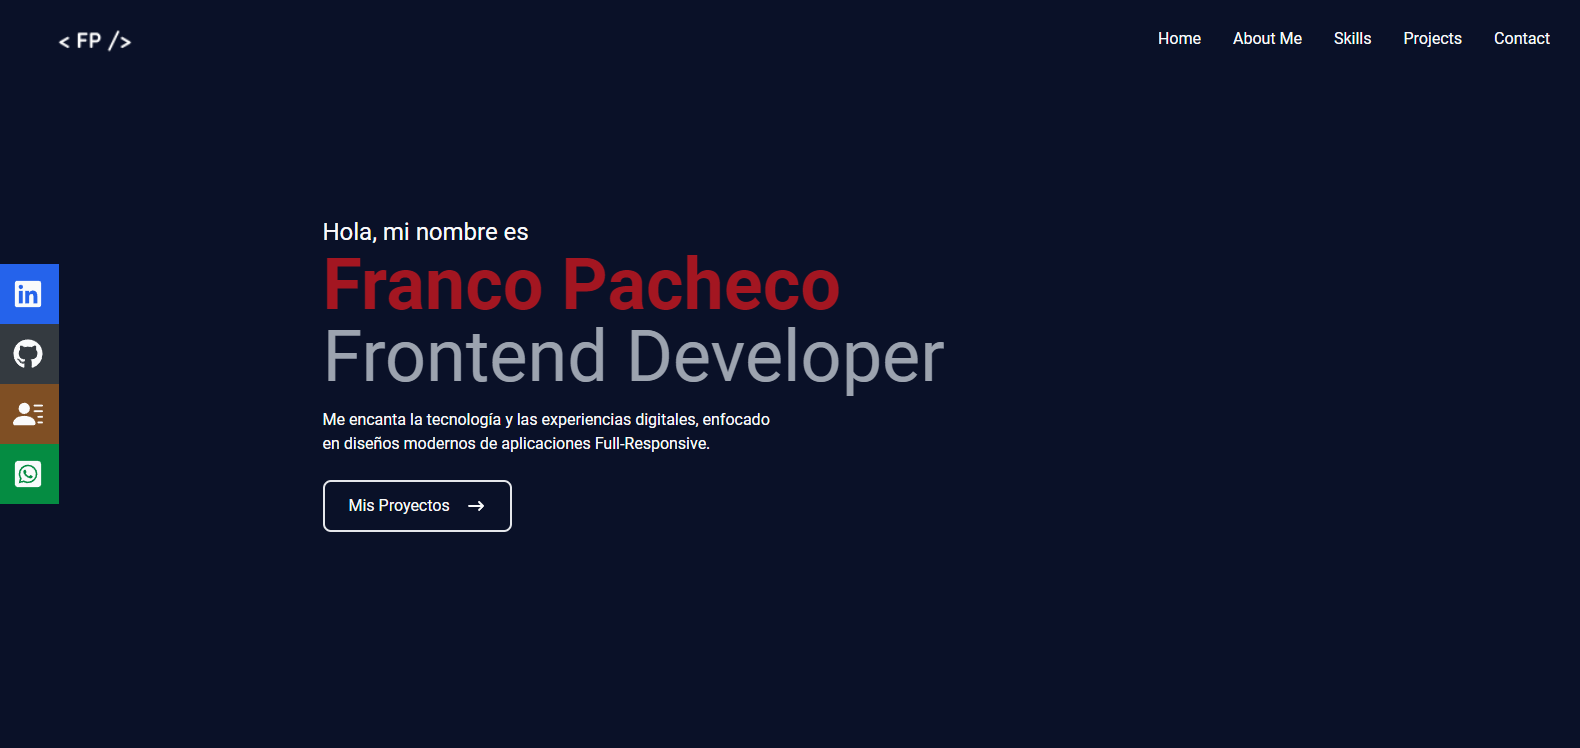
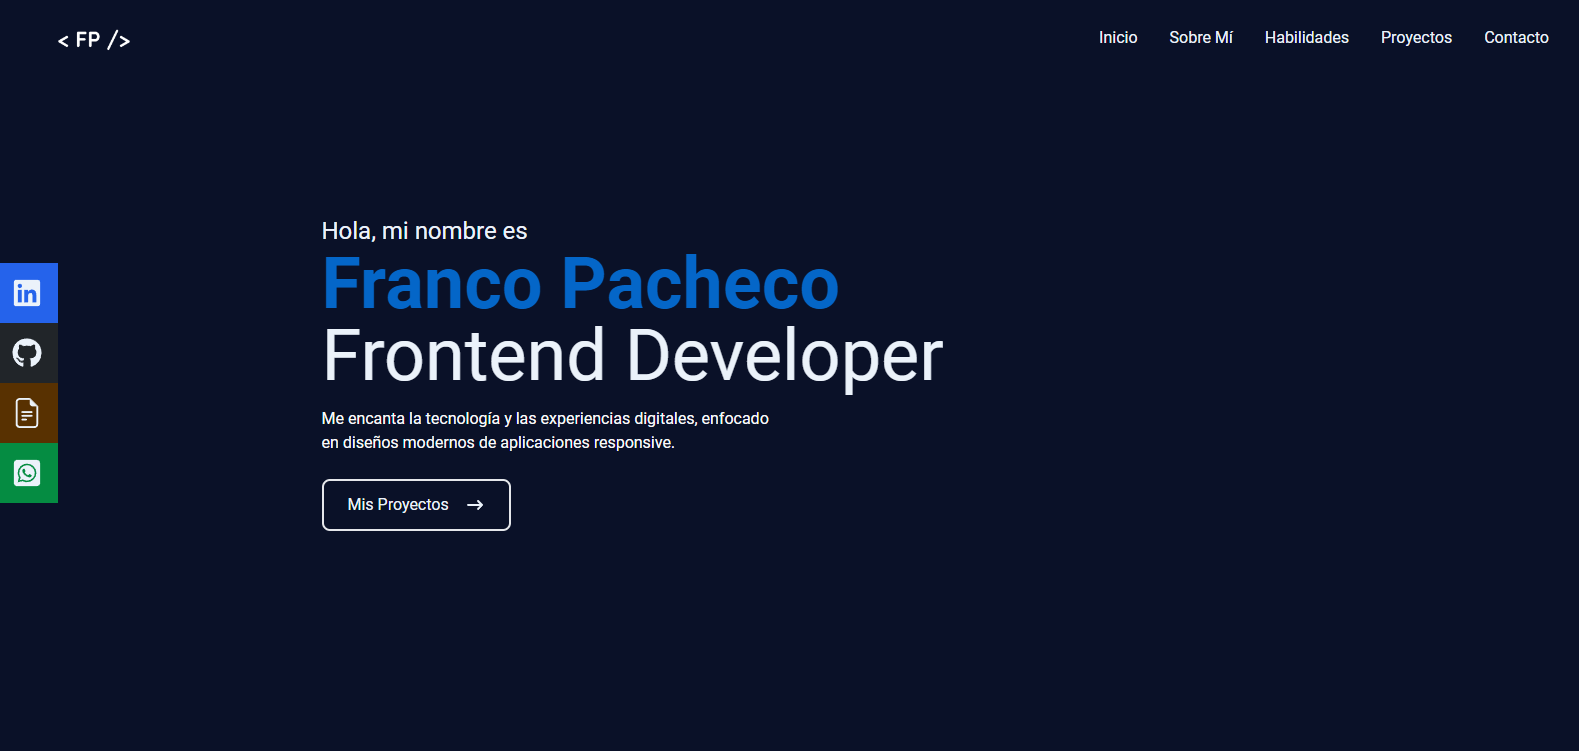
edit

diff --git a/src/components/NavBar.jsx b/src/components/NavBar.jsx
@@ -1,42 +1,42 @@
 import React, { useState } from 'react'
 import Logo from '../assets/logo.png'
 import {FaBars, FaTimes, FaGithub, FaLinkedin, FaWhatsappSquare} from 'react-icons/fa'
-import {BsFillPersonLinesFill} from 'react-icons/bs'
+import {BsFileEarmarkText} from 'react-icons/bs'
 import { Link } from 'react-scroll';
 
 export const NavBar = () => {
     const [nav, setNav] = useState(false);
     const handleClick = () => setNav(!nav)
     return (
-        <div className='fixed w-full h-[80px] flex justify-between items-center px-4 bg-[#0a1128] text-gray-50'>
+        <div className='fixed w-full h-[80px] flex justify-between items-center px-4 bg-[#0a1128] text-[#ebf2fa]'>
             <div className=''>
-                <img src={Logo} alt="Logo Image" style={{width: '160px'}}/>
+                <img src={Logo} alt="Mi Logo" style={{width: '160px'}}/>
             </div>
             {/* menu */}
                 <ul className='hidden md:flex'>
                 <li>
-                    <Link to='home' className='hover:text-[#a31621] duration-200' smooth={true} duration={500}>
-                        Home
+                    <Link to='home' className='hover:text-[#0466c8] duration-200' smooth={true} duration={500}>
+                        Inicio
                     </Link>
                 </li>
                 <li>
-                    <Link to='about' className='hover:text-[#a31621] duration-200' smooth={true} duration={500}>
-                        About Me
+                    <Link to='about' className='hover:text-[#0466c8] duration-200' smooth={true} duration={500}>
+                        Sobre Mí
                     </Link>
                 </li>
                 <li>
-                    <Link to='skills' className='hover:text-[#a31621] duration-200' smooth={true} duration={500}>
-                        Skills
+                    <Link to='skills' className='hover:text-[#0466c8] duration-200' smooth={true} duration={500}>
+                        Habilidades
                     </Link>
                 </li>
                 <li>
-                    <Link to='projects' className='hover:text-[#a31621] duration-200' smooth={true} duration={500}>
-                        Projects
+                    <Link to='projects' className='hover:text-[#0466c8] duration-200' smooth={true} duration={500}>
+                        Proyectos
                     </Link>
                 </li>
                 <li>
-                    <Link to='contact' className='hover:text-[#a31621] duration-200' smooth={true} duration={500}>
-                        Contact
+                    <Link to='contact' className='hover:text-[#0466c8] duration-200' smooth={true} duration={500}>
+                        Contacto
                     </Link>
                 </li>
                 </ul>
@@ -49,28 +49,28 @@ export const NavBar = () => {
             {/* mobile menu */} 
                 <ul className={!nav ? 'hidden' : 'absolute top-0 left-0 w-full h-screen bg-[#0a1128] flex flex-col justify-center items-center'}>
                 <li className='py-6 text-3xl'>
-                    <Link to='home' onClick={handleClick} className='hover:text-[#a31621] duration-200' smooth={true} duration={500}>
-                        Home
+                    <Link to='home' onClick={handleClick} className='hover:text-[#0466c8] duration-200' smooth={true} duration={500}>
+                        Inicio
                     </Link>
                 </li>
                 <li className='py-6 text-3xl'>
-                    <Link to='about' onClick={handleClick} className='hover:text-[#a31621] duration-200' smooth={true} duration={500}>
-                        About Me
+                    <Link to='about' onClick={handleClick} className='hover:text-[#0466c8] duration-200' smooth={true} duration={500}>
+                        Sobre Mí
                     </Link>
                 </li>
                 <li className='py-6 text-3xl'>
-                    <Link to='skills' onClick={handleClick} className='hover:text-[#a31621] duration-200' smooth={true} duration={500}>
-                        Skills
+                    <Link to='skills' onClick={handleClick} className='hover:text-[#0466c8] duration-200' smooth={true} duration={500}>
+                        Habilidades
                     </Link>
                 </li>
                 <li className='py-6 text-3xl'>
-                    <Link to='projects' onClick={handleClick} className='hover:text-[#a31621] duration-200' smooth={true} duration={500}>
-                        Projects
+                    <Link to='projects' onClick={handleClick} className='hover:text-[#0466c8] duration-200' smooth={true} duration={500}>
+                        Proyectos
                     </Link>
                 </li>
                 <li className='py-6 text-3xl'>
-                    <Link to='contact' onClick={handleClick} className='hover:text-[#a31621] duration-200' smooth={true} duration={500}>
-                        Contact
+                    <Link to='contact' onClick={handleClick} className='hover:text-[#0466c8] duration-200' smooth={true} duration={500}>
+                        Contacto
                     </Link>
                 </li>
                 </ul>
@@ -78,22 +78,22 @@ export const NavBar = () => {
             <div className="hidden lg:flex fixed flex-col top-[35%] left-0">
                 <ul>
                     <li className='w-[160px] h-[60px] flex justify-between items-center ml-[-100px] hover:ml-[-10px] duration-300 bg-blue-600'>
-                        <a className='flex justify-between items-center w-full text-gray-50' href="https://www.linkedin.com/in/francopachec0/" target='_blank'>
+                        <a className='flex justify-between items-center w-full text-[#ebf2fa] ml-3' href="https://www.linkedin.com/in/francopachec0/" target='_blank' rel='noreferrer'>
                             LinkedIn <FaLinkedin size={30}/>
                         </a>
                     </li>
-                    <li className='w-[160px] h-[60px] flex justify-between items-center ml-[-100px] hover:ml-[-10px] duration-300 bg-[#343a40]'>
-                        <a className='flex justify-between items-center w-full text-gray-50' href="https://github.com/francopachec0" target='_blank'>
+                    <li className='w-[160px] h-[60px] flex justify-between items-center ml-[-100px] hover:ml-[-10px] duration-300 bg-[#212529]'>
+                        <a className='flex justify-between items-center w-full text-[#ebf2fa] ml-3' href="https://github.com/francopachec0" target='_blank' rel='noreferrer'>
                             GitHub <FaGithub size={30}/>
                         </a>
                     </li>
-                    <li className='w-[160px] h-[60px] flex justify-between items-center ml-[-100px] hover:ml-[-10px] duration-300 bg-[#7f4f24]'>
-                        <a className='flex justify-between items-center w-full text-gray-50' href="https://www.canva.com/design/DAE2vqz32FQ/5HR9WYjtQEXlmjY-kK9fww/view?utm_content=DAE2vqz32FQ&utm_campaign=designshare&utm_medium=link&utm_source=publishsharelink" target='_blank'>
-                            Resume <BsFillPersonLinesFill size={30}/>
+                    <li className='w-[160px] h-[60px] flex justify-between items-center ml-[-100px] hover:ml-[-10px] duration-300 bg-[#583101]'>
+                        <a className='flex justify-between items-center w-full text-[#ebf2fa] ml-3' href="https://www.canva.com/design/DAE2vqz32FQ/5HR9WYjtQEXlmjY-kK9fww/view?utm_content=DAE2vqz32FQ&utm_campaign=designshare&utm_medium=link&utm_source=publishsharelink" target='_blank' rel='noreferrer'>
+                            CV <BsFileEarmarkText size={30}/>
                         </a>
                     </li>
                     <li className='w-[160px] h-[60px] flex justify-between items-center ml-[-100px] hover:ml-[-10px] duration-300 bg-[#058c42]'>
-                        <a className='flex justify-between items-center w-full text-gray-50' href="https://wa.me/+543855374571" target='_blank'>
+                        <a className='flex justify-between items-center w-full text-[#ebf2fa] ml-3' href="https://wa.me/+543855374571" target='_blank' rel='noreferrer'>
                             WhatsApp <FaWhatsappSquare size={30}/>
                         </a>
                     </li>

diff --git a/src/components/SocialMedia.jsx b/src/components/SocialMedia.jsx
@@ -1,6 +1,6 @@
 import React from 'react'
 import {FaGithub, FaLinkedin, FaWhatsappSquare} from 'react-icons/fa'
-import {BsFillPersonLinesFill} from 'react-icons/bs'
+import {BsFileEarmarkText} from 'react-icons/bs'
 
 export const SocialMedia = () => {
     return (
@@ -8,22 +8,22 @@ export const SocialMedia = () => {
             <div className="md:hidden fixed top-[12%] right-0 flex-col">
                 <ul>
                     <li className='w-[140px] h-[30px] flex justify-between items-center mr-[-88px]  bg-blue-600'>
-                        <a className='flex justify-between items-center w-full text-gray-50' href="https://www.linkedin.com/in/francopachec0/" target='_blank'>
+                        <a className='flex justify-between items-center w-full text-[#ebf2fa]' href="https://www.linkedin.com/in/francopachec0/" target='_blank' rel='noreferrer'>
                             <FaLinkedin size={22} />
                         </a>
                     </li>
-                    <li className='w-[140px] h-[30px] flex justify-between items-center mr-[-100px] bg-[#343a40]'>
-                        <a className='flex justify-between items-center w-full text-gray-50' href="https://github.com/francopachec0" target='_blank'>
+                    <li className='w-[140px] h-[30px] flex justify-between items-center mr-[-100px] bg-[#212529]'>
+                        <a className='flex justify-between items-center w-full text-[#ebf2fa]' href="https://github.com/francopachec0" target='_blank' rel='noreferrer'>
                             <FaGithub size={22}/>
                         </a>
                     </li>
-                    <li className='w-[140px] h-[30px] flex justify-between items-center mr-[-100px] bg-[#7f4f24]'>
-                        <a className='flex justify-between items-center w-full text-gray-50' href="https://www.canva.com/design/DAE2vqz32FQ/5HR9WYjtQEXlmjY-kK9fww/view?utm_content=DAE2vqz32FQ&utm_campaign=designshare&utm_medium=link&utm_source=publishsharelink" target='_blank'>
-                            <BsFillPersonLinesFill size={22}/>
+                    <li className='w-[140px] h-[30px] flex justify-between items-center mr-[-100px] bg-[#583101]'>
+                        <a className='flex justify-between items-center w-full text-[#ebf2fa]' href="https://www.canva.com/design/DAE2vqz32FQ/5HR9WYjtQEXlmjY-kK9fww/view?utm_content=DAE2vqz32FQ&utm_campaign=designshare&utm_medium=link&utm_source=publishsharelink" target='_blank' rel='noreferrer'>
+                            <BsFileEarmarkText size={22}/>
                         </a>
                     </li>
                     <li className='w-[140px] h-[30px] flex justify-between items-center mr-[-100px] bg-[#058c42]'>
-                        <a className='flex justify-between items-center w-full text-gray-50' href="https://wa.me/+543855374571" target='_blank'>
+                        <a className='flex justify-between items-center w-full text-[#ebf2fa]' href="https://wa.me/+543855374571" target='_blank' rel='noreferrer'>
                             <FaWhatsappSquare size={22}/>
                         </a>
                     </li>

diff --git a/src/components/About.jsx b/src/components/About.jsx
@@ -2,20 +2,23 @@ import React from 'react'
 
 export const About = () => {
     return (
-        <div name='about' className='w-full h-screen bg-[#0a1128] text-gray-50'>
+        <div name='about' className='w-full h-screen bg-[#0a1128] text-[#ebf2fa]'>
             <div className='flex flex-col justify-center items-center w-full h-full'>
                 <div className='max-w-[1000px] w-full grid grid-cols-2 gap-8'>
                     <div className='sm:text-right pb-8 pl-4'>
-                        <p className='text-3xl font-bold inline border-b-4 border-[#a31621]'>About Me</p>
+                        <p className='text-3xl font-bold inline border-b-4 border-[#0466c8]'>Sobre Mí</p>
                     </div>
                 </div>
-                <div className='max-w-[1000px] w-full grid sm:grid-cols-2 gap-8 px-4'>
-                    <div className='sm:text-right text-2xl font-bold text-gray-400'>
-                        <p className=''>Me llamo Franco, soy de Santiago del Estero, Argentina. Finalice el Bootcamp de Henry, como Web Developer. </p>
+                <div className='max-w-[1000px] w-full grid sm:grid-cols-2 gap-10 px-8'>
+                    <div className='sm:text-center text-2xl font-bold'>
+                        <p className='text-[#979DAC]'>🎓 Graduado del Bootcamp de HENRY como Web Developer 💻💛</p>
+                        <p className='text-[#ebf2fa]'>🌎 Resido en Santiago del Estero, Argentina y busco empleo remoto</p>
+                        <p className='text-[#979DAC]'>💼 Estoy abierto a ofertas laborales y con muchas ganas de seguir capacitandome en este mundo IT</p>
+                        <p className='m-4'>⭐⭐⭐</p>
                     </div>
-                    <div className='text-gray-400'>
-                        <p>Me gusta resolver problemas cotidianos, el aprendizaje continuo y como la tecnología avanza
-                        día a día. </p>  
+                    <div className='sm:text-center text-2xl font-bold'>
+                        <p className='text-[#979DAC]'>👨💻 Me encuentro conociendo otras tecnologias y realizando mini proyectos de manera auto didacta</p>
+                        <p className='text-[#ebf2fa]'>👋🏼 Tengo 22 años, me gusta la programacion y me encanta aprender cosas nuevas!</p>
                     </div>
                 </div>
             </div>

diff --git a/src/components/Contact.jsx b/src/components/Contact.jsx
@@ -5,13 +5,13 @@ const Contact = () => {
         <div name='contact' className='w-full h-screen bg-[#0a1128] flex justify-center items-center p-4'>
             <form method='POST' action="https://getform.io/f/645ffd8c-9789-463e-a185-96bf1f503a87" className='flex flex-col max-w-[600px] w-full'>
                 <div className='pb-8'>
-                    <p className='text-4xl font-bold inline border-b-4 border-[#a31621] text-gray-50'>Contáctame</p>
+                    <p className='text-4xl font-bold inline border-b-4 border-[#0466c8] text-[#ebf2fa]'>Contáctame</p>
                     <p className='text-gray-50 py-4'>Completa el formulario o envíame un correo - francopacheco.dev@gmail.com</p>
                 </div>
-                <input className='bg-[#ccd6f6] p-2' type="text" placeholder='Name' name='name' required/>
+                <input className='bg-[#ccd6f6] p-2' type="text" placeholder='Nombre' name='name' required/>
                 <input className='my-4 p-2 bg-[#ccd6f6]' type="email" placeholder='Email' name='email' required />
-                <textarea className='bg-[#ccd6f6] p-2' type='text' name="message" rows="10" placeholder='Message' required></textarea>
-                <button className='text-white border-2 hover:bg-[#a31621] hover:border-[#a31621] duration-300 rounded-lg px-4 py-3 my-8 mx-auto flex items-center'>Trabajémos Juntos</button>
+                <textarea className='bg-[#ccd6f6] p-2' type='text' name="message" rows="10" placeholder='Mensaje' required></textarea>
+                <button className='text-white border-2 hover:bg-[#023e7d] hover:border-[#023e7d] duration-300 rounded-lg px-4 py-3 my-8 mx-auto flex items-center'>Trabajémos Juntos</button>
             </form>
         </div>
     )

diff --git a/src/components/Home.jsx b/src/components/Home.jsx
@@ -7,14 +7,14 @@ export const Home = () => {
         <div name='home' className='w-full h-screen bg-[#0a1128]'>
             {/* container */}
             <div className='max-w-[1000px] mx-auto px-8 flex flex-col justify-center h-full'>
-                <p className='text-2xl text-gray-50'>Hola, mi nombre es</p>
-                <h1 className='text-4xl sm:text-7xl font-bold text-[#a31621]'>Franco Pacheco</h1>
-                <h2 className='text-2xl sm:text-7xl text-gray-400'>Frontend Developer</h2>
+                <p className='text-2xl text-[#ebf2fa]'>Hola, mi nombre es</p>
+                <h1 className='text-4xl sm:text-7xl font-bold text-[#0466c8]'>Franco Pacheco</h1>
+                <h2 className='text-2xl sm:text-7xl text-[#ebf2fa]'>Frontend Developer</h2>
                 <p className='text-gray-50 py-4 max-w-[450px]'>Me encanta la tecnología y las experiencias digitales, enfocado en diseños modernos de 
-                aplicaciones Full-Responsive.
+                aplicaciones responsive.
                 </p>
                 <div>
-                    <button className='text-gray-50 group border-2 px-6 py-3 my-2 rounded-lg flex items-center hover:bg-[#a31621] duration-300 hover:border-[#a31621]'>
+                    <button className='text-[#ebf2fa] group border-2 px-6 py-3 my-2 rounded-lg flex items-center hover:bg-[#023e7d] duration-300 hover:border-[#023e7d]'>
                         <Link to='projects' smooth={true} duration={500}>Mis Proyectos</Link>
                         <span className='group-hover:rotate-90 duration-300'>
                             <HiArrowNarrowRight size={20} className='ml-4'/>

diff --git a/src/components/SoftSkills.jsx b/src/components/SoftSkills.jsx
@@ -2,16 +2,16 @@ import React from 'react'
 
 export const SoftSkills = () => {
     return (
-        <div className='w-full h-screen bg-[#0a1128] text-gray-50'>
+        <div className='w-full h-screen bg-[#0a1128] text-[#ebf2fa]'>
         {/* Container */}
         <div className='max-w-[1000px] mx-auto p-4 flex flex-col justify-center w-full h-full'>
                 <div>
-                    <p className='text-4xl font-bold inline border-b-4 border-[#a31621] '>Soft Skills</p>
-                    <p className='py-4'>Aprendizaje Rapido, Adaptación, Autonomía, Comunicación, Trabajo en Equipo, Creatividad, Gestión del Tiempo.</p>
+                    <p className='text-4xl font-bold inline border-b-4 border-[#0466c8]'>Soft Skills</p>
+                    <p className='py-4'>Aprendizaje Rapido, Adaptación, Autonomía, Comunicación, Trabajo en Equipo, Creatividad, Gestión del Tiempo, Curiosidad.</p>
                 </div>
-                <br /> <br /> <br /> <br /> <br />
+                <br /> <br /> <br /> <br />
                 <div>
-                    <p className='text-4xl font-bold inline border-b-4 border-[#a31621] '>Otros Datos</p>
+                    <p className='text-4xl font-bold inline border-b-4 border-[#0466c8]'>Otros Datos</p>
                     <p className='py-4'>Scrum, Trello, Slack, Inglés B1.</p>
                 </div>
                 </div>

diff --git a/src/components/Skills.jsx b/src/components/Skills.jsx
@@ -13,12 +13,12 @@ import Node from "../assets/node.png";
 
 const Skills = () => {
     return (
-    <div name='skills' className='w-full h-screen bg-[#0a1128] text-gray-50'>
+    <div name='skills' className='w-full h-screen bg-[#0a1128] text-[#ebf2fa]'>
       {/* Container */}
         <div className='max-w-[1000px] mx-auto p-4 flex flex-col justify-center w-full h-full'>
             <div>
-                <p className='text-4xl font-bold inline border-b-4 border-[#a31621] '>Hard Skills</p>
-                <p className='py-4'>Estas son las tecnologías en la que estoy trabajando/capacitandome.</p>
+                <p className='text-4xl font-bold inline border-b-4 border-[#0466c8]'>Hard Skills</p>
+                <p className='py-4'>Estas son las tecnologías en las que estoy trabajando/capacitandome.</p>
             </div>
 
             <div className='w-full grid grid-cols-2 sm:grid-cols-4 gap-4 text-center py-8'>

diff --git a/src/components/Projects.jsx b/src/components/Projects.jsx
@@ -11,15 +11,15 @@ const Projects = () => {
   return (
     <div
       name="projects"
-      className="w-full h-full lg:h-3/4 md:h-3/4 text-gray-50 bg-[#0a1128]"
+      className="w-full h-full lg:h-3/4 md:h-3/4 text-[#ebf2fa] bg-[#0a1128]"
     >
       <div className="max-w-[1000px] mx-auto p-4 flex flex-col justify-center w-full h-full">
         <div className="pb-8">
-          <p className="text-4xl font-bold inline border-b-4 text-gray-50 border-[#a31621]">
+          <p className="text-4xl font-bold inline border-b-4 text-[#ebf2fa] border-[#0466c8]">
             Proyectos
           </p>
           <p className="py-6">
-            Algunos de mis trabajos recientes, y mi certificado Web Developer en HENRY.
+            Algunos de mis trabajos recientes, y mi certificado Web Developer de HENRY.
           </p>
         </div>
 
